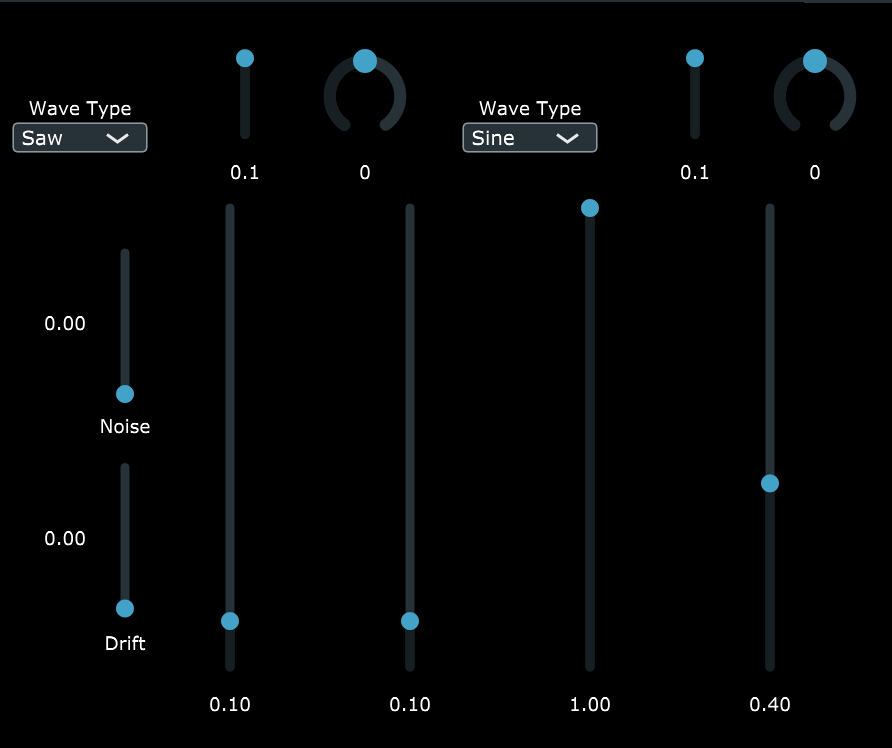
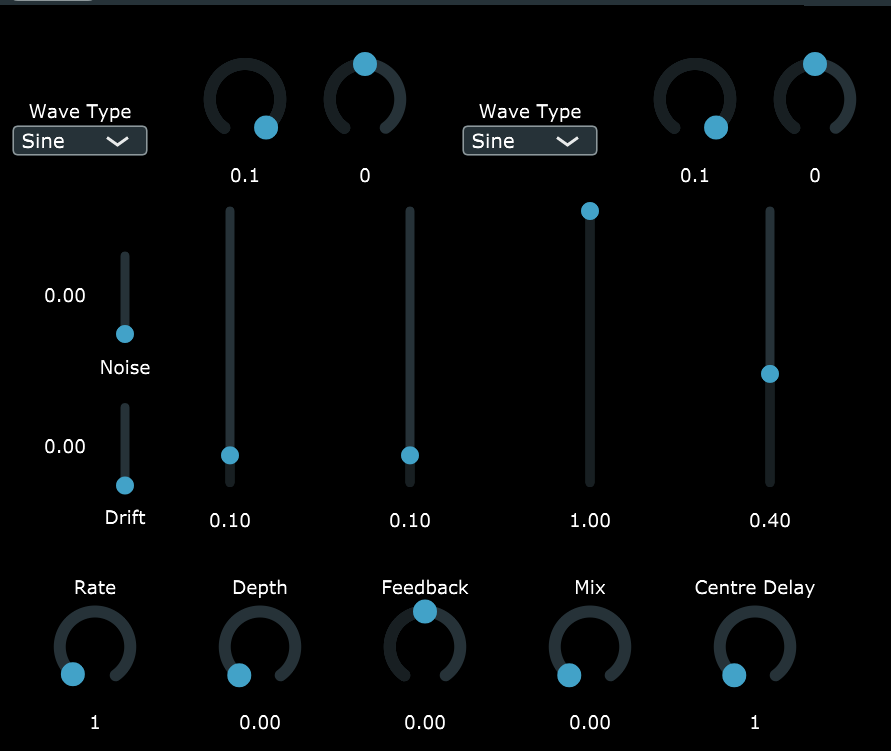
Added chorus feature

diff --git a/Source/UI/AdsrComponent.cpp b/Source/UI/AdsrComponent.cpp
@@ -37,7 +37,7 @@ AdsrComponent::AdsrComponent(juce::AudioProcessorValueTreeState& apvts)
     setSliderParamsVariant(driftSlider);
 
     chorusButton.setButtonText("Chorus");
-    addAndMakeVisible(chorusButton);
+  //  addAndMakeVisible(chorusButton);
 
 
     driftLabel.setColour(juce::Label::ColourIds::textColourId, juce::Colours::white);
@@ -87,7 +87,7 @@ void AdsrComponent::resized()
     noiseSlider.setBounds(20, 30, sliderWidth - 30, sliderHeight / 3);
     driftSlider.setBounds(20, sliderHeight / 3 + 55, sliderWidth - 30, sliderHeight / 3);
 
-    driftLabel.setBounds(30, sliderHeight / 3 + (165), sliderWidth, 30);
+    driftLabel.setBounds(30, sliderHeight / 3 + (125), sliderWidth, 30);
     noiseLabel.setBounds(30, sliderHeight / 3 + 25, sliderWidth, 30);
 
     chorusButton.setBounds(0, sliderHeight / 3 + 120, sliderWidth, 30);

diff --git a/README.md b/README.md
@@ -2,5 +2,6 @@
 
 
 This dual oscillator synth has traditional ADSR functionality, as well as gain, noise, and pitch sliders.
-Three wavetypes are available: Saw, Sin, and Square. The Saw wave is approximated using a summation which can be easily modified from within OscData.cpp.
+Three wavetypes are available: Saw, Sin, Square, and Triangle. The Saw wave is approximated using a summation which can be easily modified from within OscData.cpp.
 An additional parameter is available, nicknamed drift. It modifies the frequency of Oscillator 1, creating a dynamic and desynchronized sound no matter what notes are played.
+There is also a chorus feature, which modulates the delay of a delay line. Parameters are provided which control the rate and depth of the LFO modulating the delay line, as well as the centre delay, feedback, and mix. 
